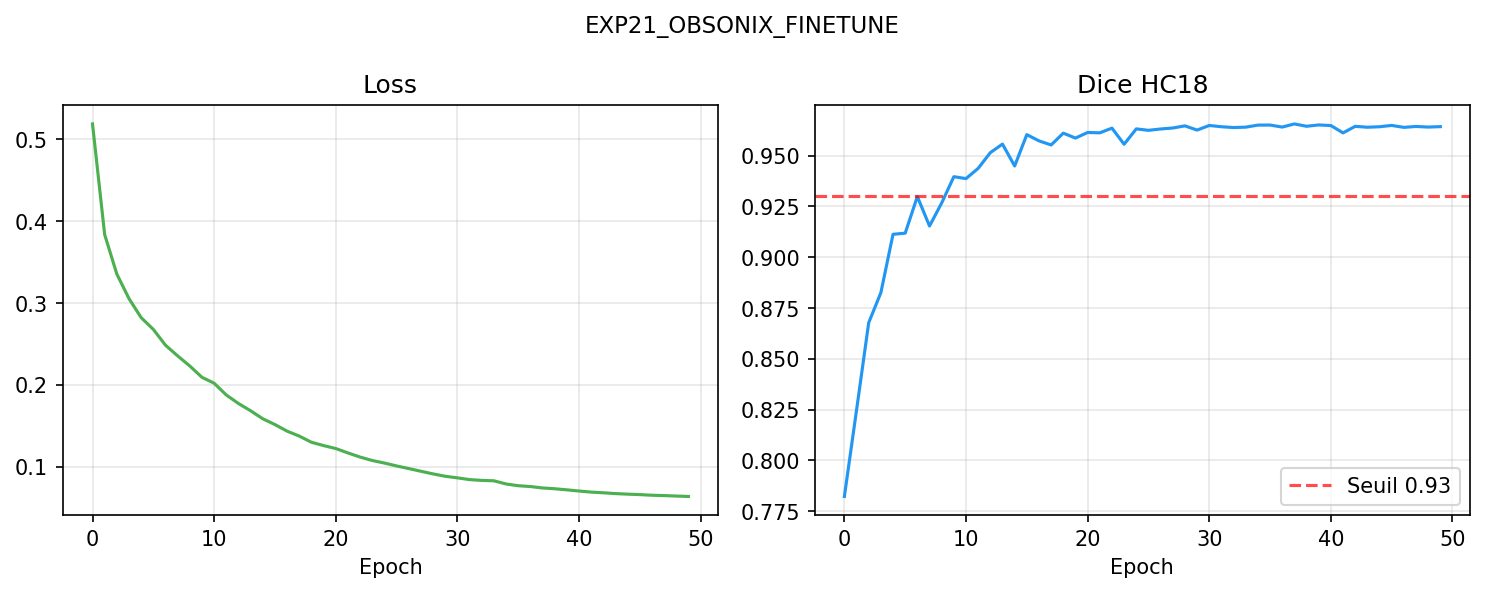
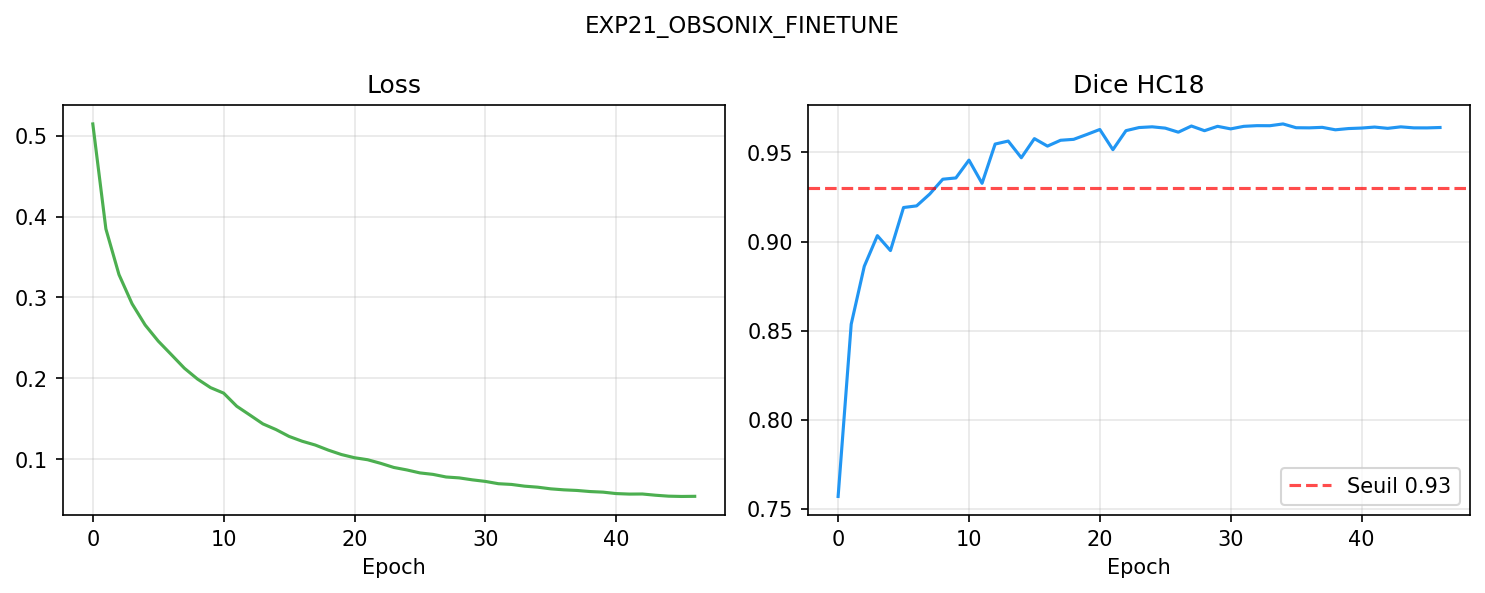
[EXP21_OBSONIX_FINETUNE] best_val_dice=0.9660; best_epoch=35; obs_init=DINOv2-B; objectif_0.93=OK

diff --git a/experiments/EXP21_OBSONIX_FINETUNE/summary.md b/experiments/EXP21_OBSONIX_FINETUNE/summary.md
@@ -1,11 +1,11 @@
 # EXP21_OBSONIX_FINETUNE
-*2026-06-22 20:28*
+*2026-06-22 23:25*
 
 ## Metriques
 | Metrique | Valeur |
 |---|---|
-| best_val_dice | 0.9656 |
-| best_epoch | 38 |
+| best_val_dice | 0.9660 |
+| best_epoch | 35 |
 | obs_init | DINOv2-B |
 | objectif_0.93 | OK |
 